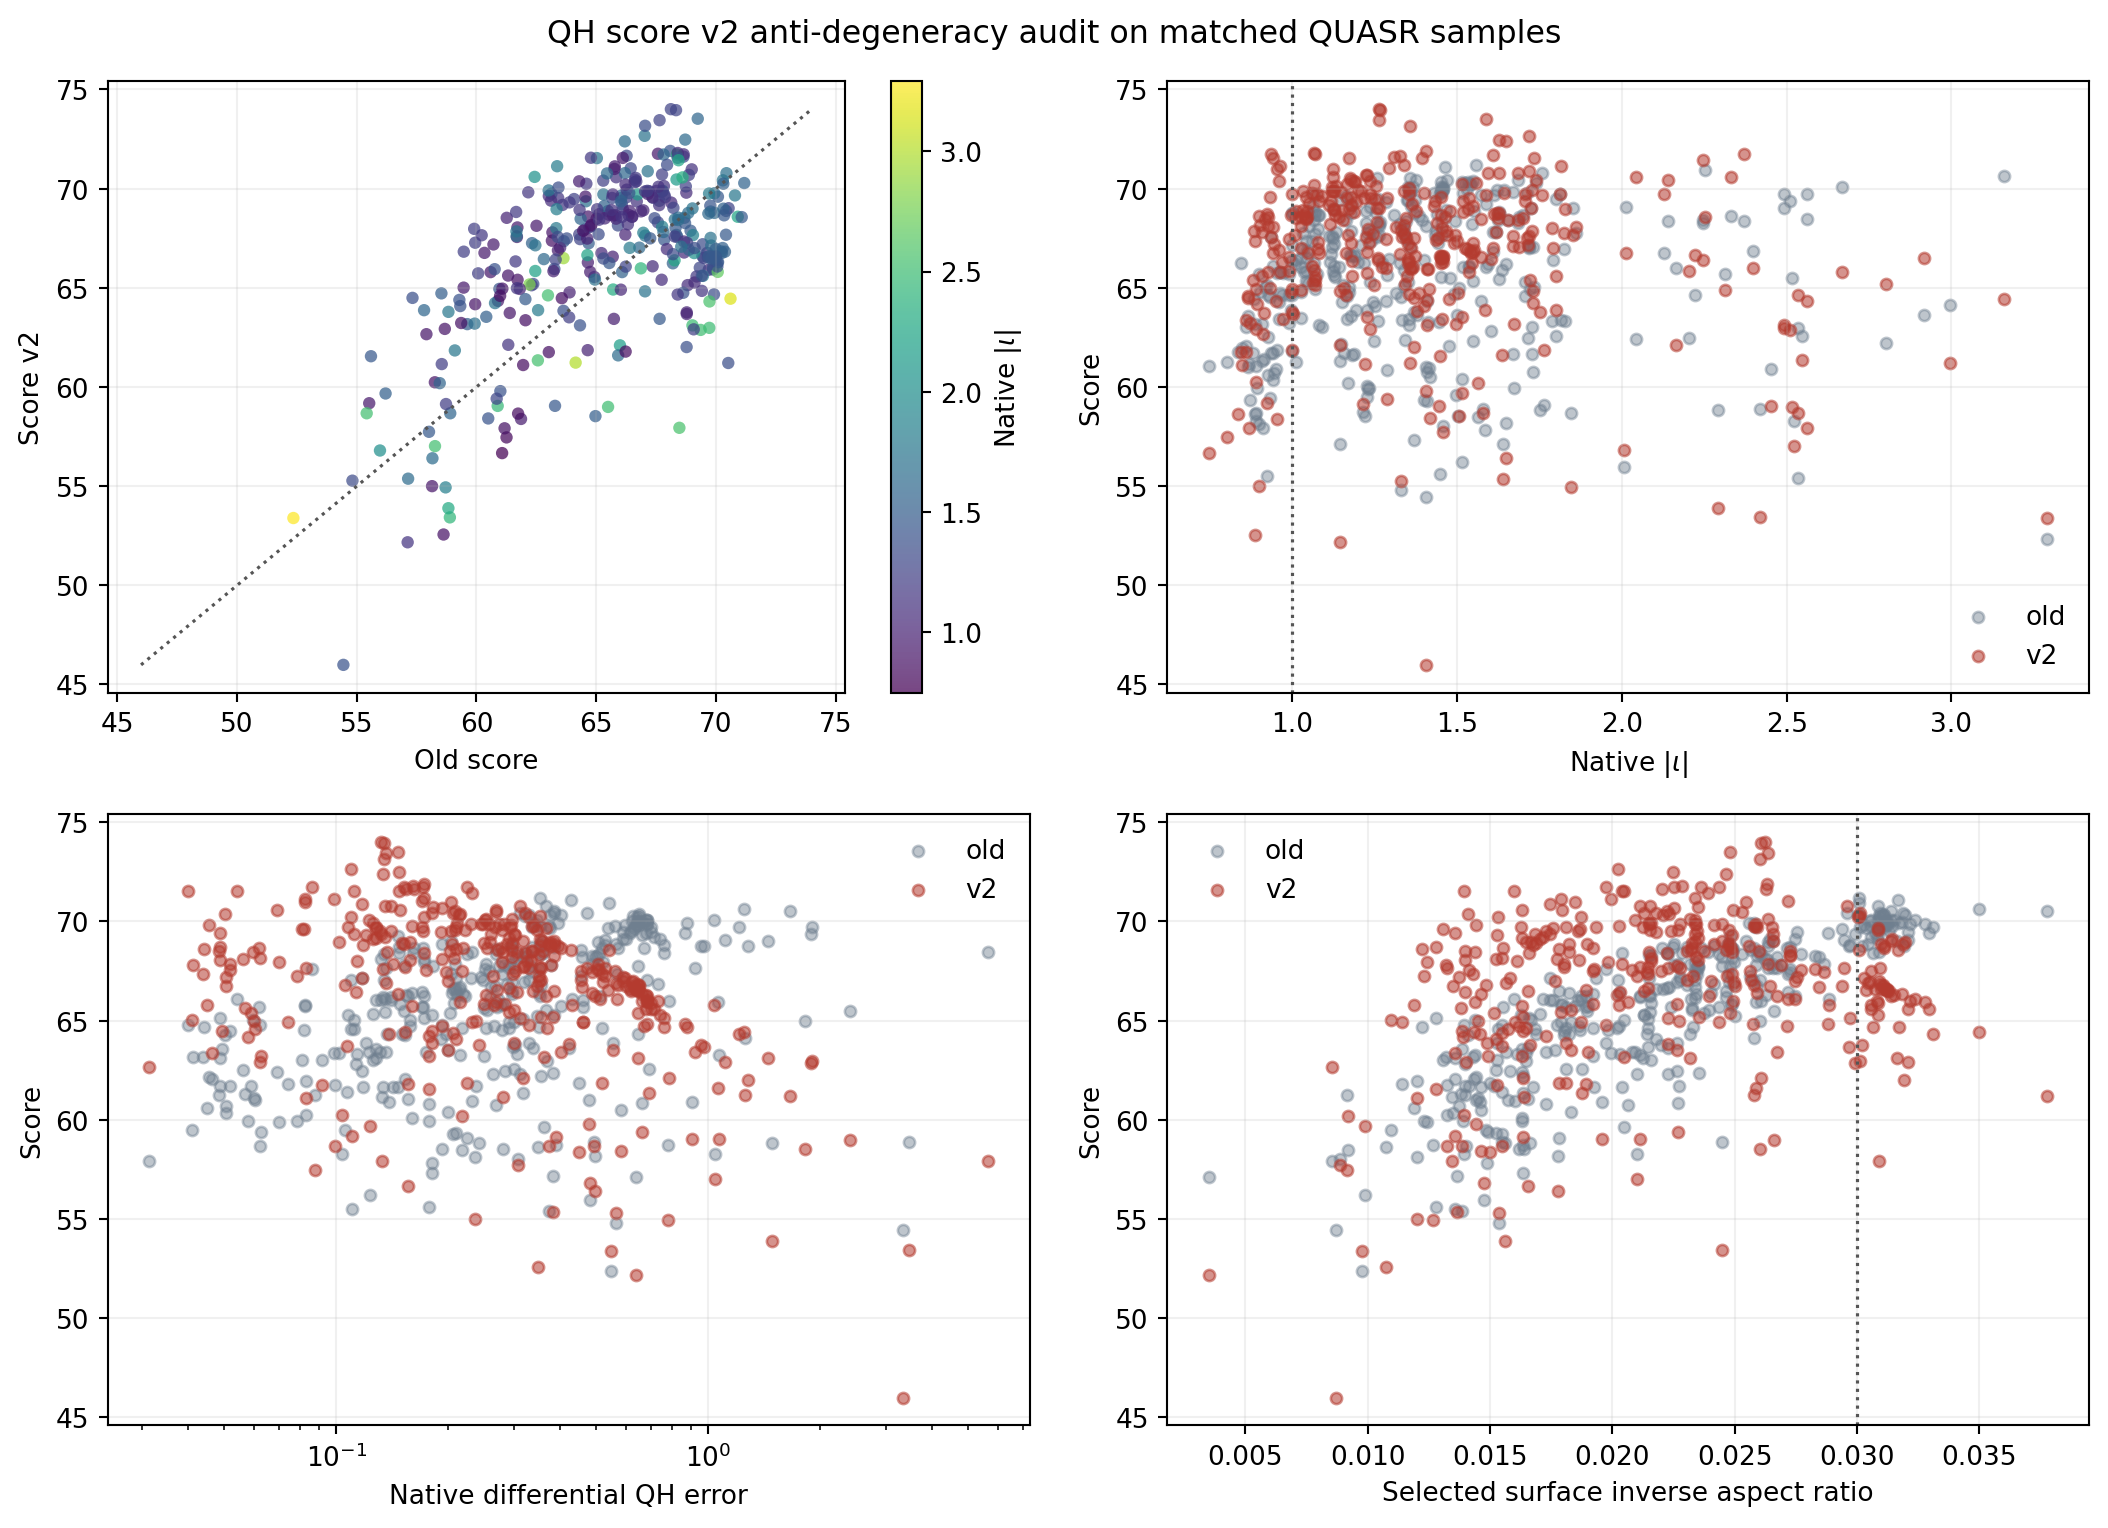
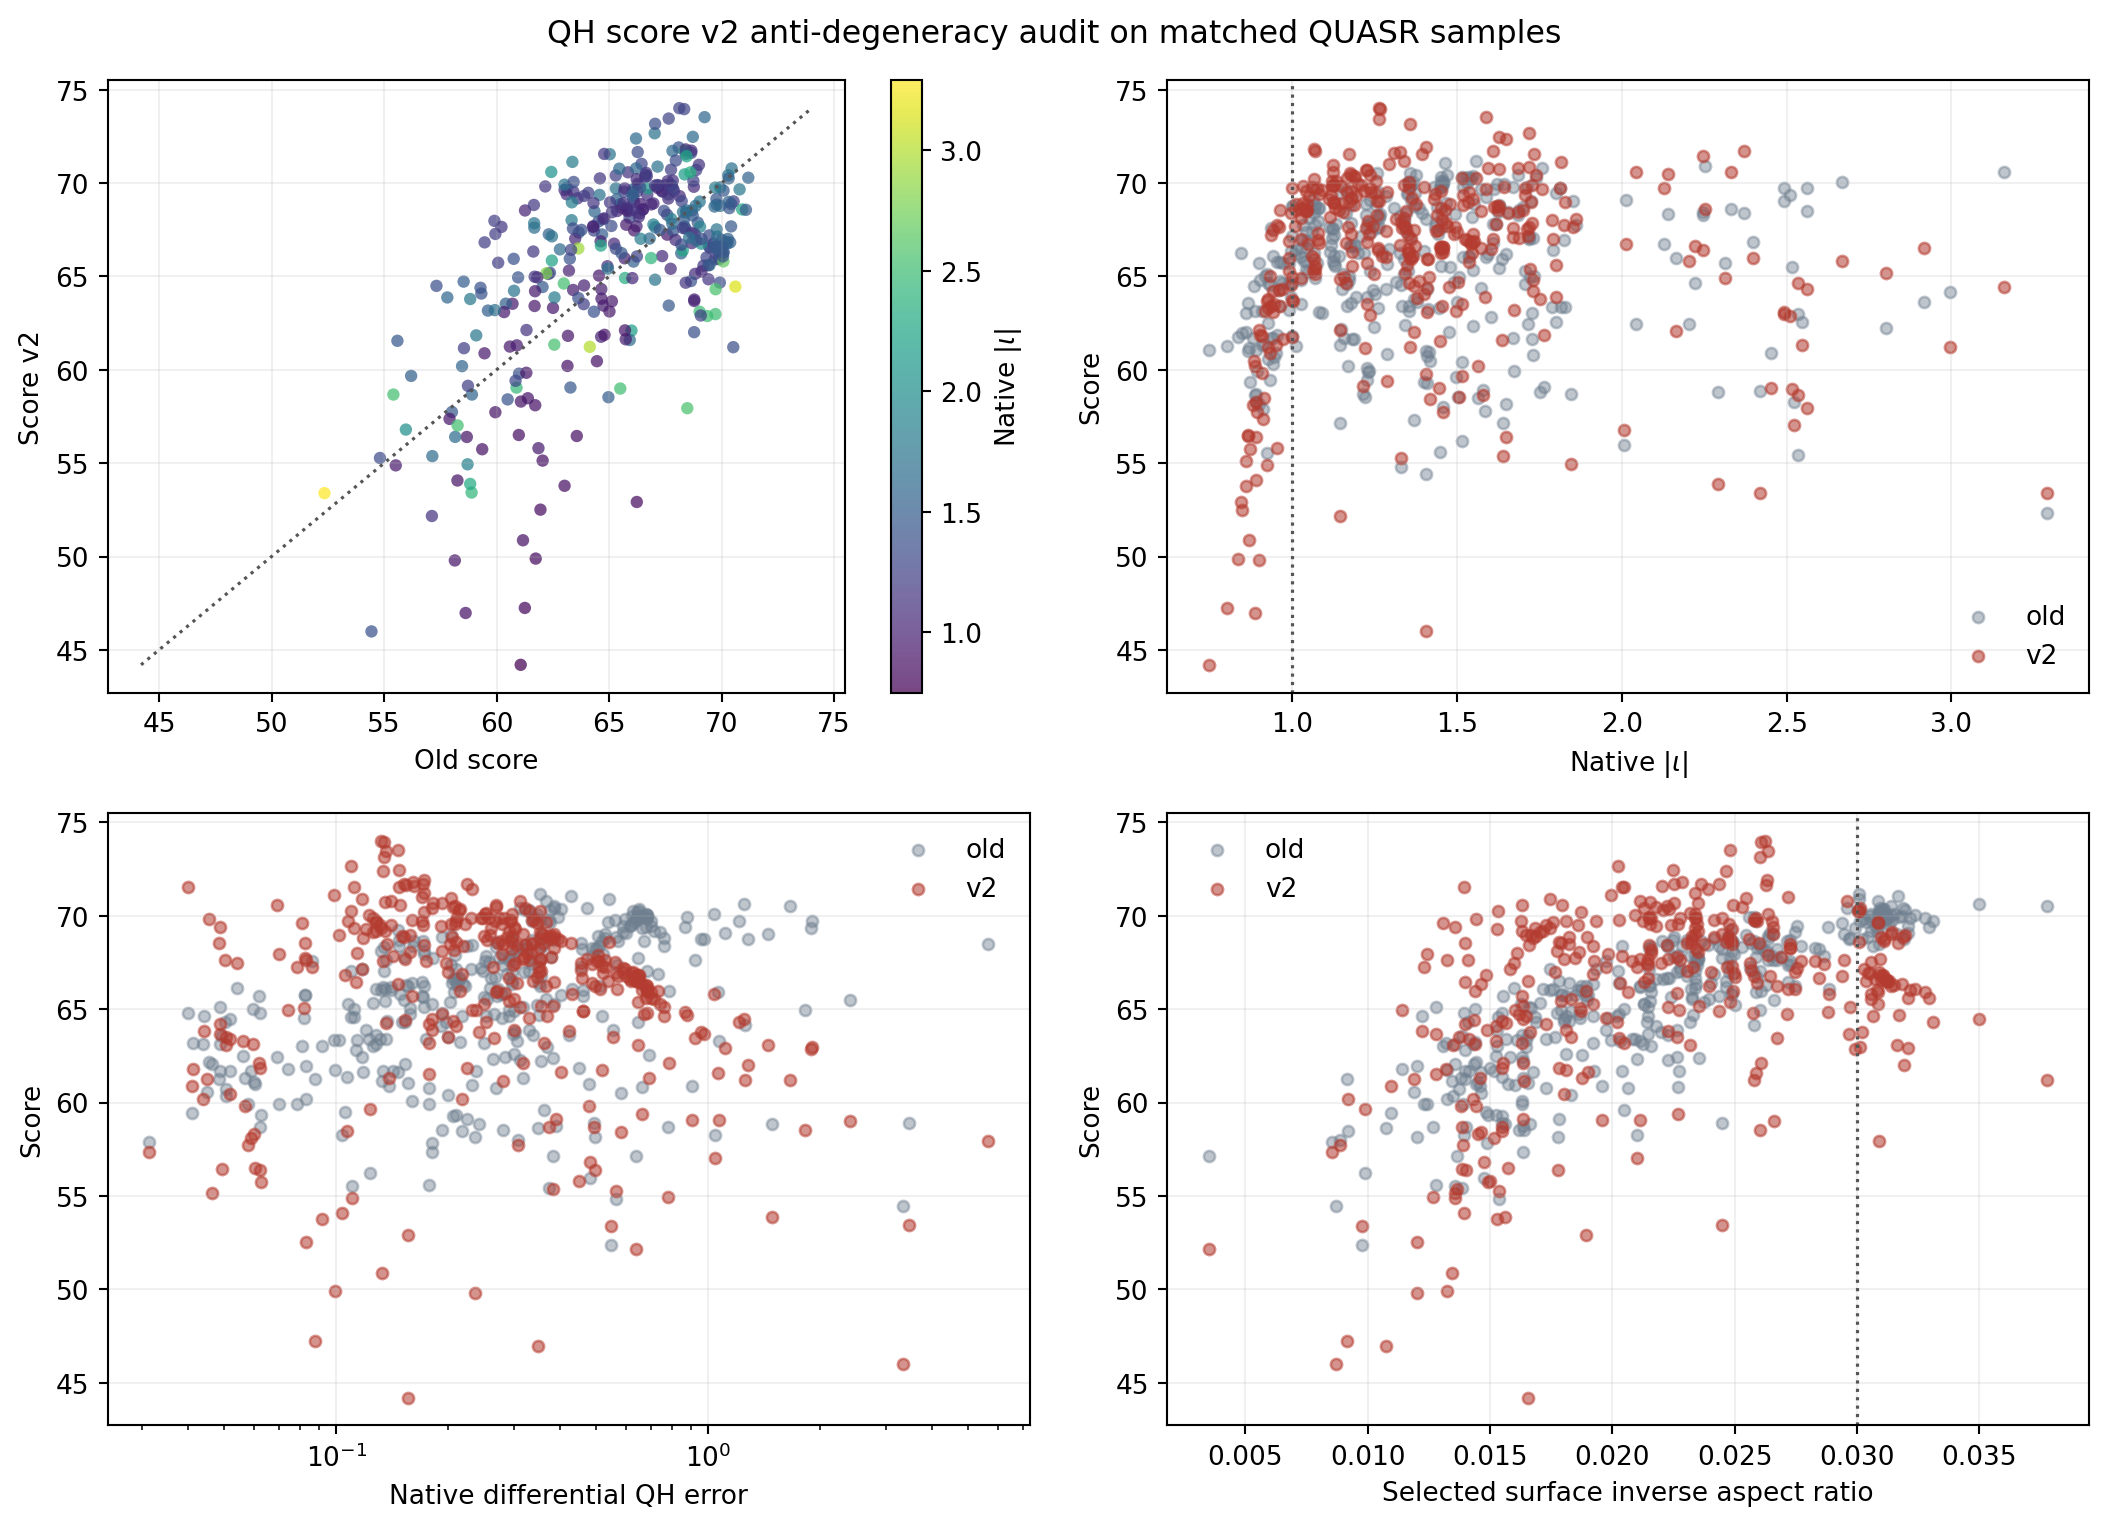
Gate QH total score by rotational transform

diff --git a/scripts/analyze_score_v2_anticheat.py b/scripts/analyze_score_v2_anticheat.py
@@ -161,6 +161,7 @@ def main() -> None:
     parser.add_argument("--degenerate-old", type=Path, required=True)
     parser.add_argument("--degenerate-new", type=Path, required=True)
     parser.add_argument("--quasr-metadata", type=Path)
+    parser.add_argument("--qh-total-iota-floor", type=float)
     parser.add_argument("--output-dir", type=Path, required=True)
     args = parser.parse_args()
 
@@ -175,7 +176,16 @@ def main() -> None:
             continue
         row = dict(new)
         row["old_score"] = old["score"]
-        row["new_score"] = new["score"]
+        score_before_gate = number(new, "score")
+        if args.qh_total_iota_floor is None:
+            total_iota_factor = 1.0
+        else:
+            total_iota_factor = args.qh_total_iota_floor + (
+                1.0 - args.qh_total_iota_floor
+            ) * number(new, "iota_score")
+        row["score_before_qh_iota_gate"] = score_before_gate
+        row["score_qh_total_iota_factor"] = total_iota_factor
+        row["new_score"] = score_before_gate * total_iota_factor
         rows.append(row)
     if not rows:
         raise RuntimeError("no matched successful QH rows")
@@ -188,9 +198,17 @@ def main() -> None:
     size = [number(row, "inverse_aspect_ratio") for row in rows]
     old_degenerate = extract_native_score(args.degenerate_old)
     new_degenerate = extract_native_score(args.degenerate_new)
-    new_degenerate_score = float(new_degenerate["score"])
+    degenerate_factor = (
+        1.0
+        if args.qh_total_iota_floor is None
+        else args.qh_total_iota_floor
+        + (1.0 - args.qh_total_iota_floor)
+        * float(new_degenerate["diagnostics"]["score_iota"])
+    )
+    new_degenerate_score = float(new_degenerate["score"]) * degenerate_factor
     summary = {
         "matched_successful_qh_count": len(rows),
+        "qh_total_iota_floor": args.qh_total_iota_floor,
         "score": {"old": statistics(old_scores), "v2": statistics(new_scores)},
         "spearman": {
             "old_score_vs_metadata_qs_quality": spearman(old_scores, quality),
@@ -212,6 +230,8 @@ def main() -> None:
         "degenerate_case": {
             "old_score": float(old_degenerate["score"]),
             "v2_score": new_degenerate_score,
+            "score_before_qh_iota_gate": float(new_degenerate["score"]),
+            "qh_total_iota_factor": degenerate_factor,
             "v2_quasr_percentile": float(100.0 * np.mean(np.asarray(new_scores) <= new_degenerate_score)),
             "v2_components": new_degenerate["components"],
             "v2_iota": float(new_degenerate["diagnostics"]["iota_min"]),

diff --git a/stellarator_eval/volume_score.py b/stellarator_eval/volume_score.py
@@ -36,6 +36,7 @@ class VolumeScoreConfig:
     qh_iota_power: float = 2.0
     volume_qs_size_floor: float = 0.65
     volume_qs_iota_floor: float = 0.50
+    qh_total_iota_floor: float = 0.50
     missing_coordinate_score: float = 0.08
     missing_volume_qs_score: float = 0.04
     weights: dict[str, float] = field(
@@ -319,7 +320,15 @@ def evaluate_volume_quality_score(
     total_weight = sum(float(value) for value in cfg.weights.values())
     if total_weight <= 0.0:
         raise ValueError("score weights must have a positive sum")
-    unit_score = sum(cfg.weights[name] * value for name, value in components.items()) / total_weight
+    unit_score_before_gate = (
+        sum(cfg.weights[name] * value for name, value in components.items()) / total_weight
+    )
+    qh_total_iota_factor = (
+        cfg.qh_total_iota_floor + (1.0 - cfg.qh_total_iota_floor) * iota_score
+        if iota_parts["iota_qh_gate_enabled"]
+        else 1.0
+    )
+    unit_score = unit_score_before_gate * qh_total_iota_factor
     details: dict[str, Any] = {}
     for part in (
         axis_parts,
@@ -331,6 +340,8 @@ def evaluate_volume_quality_score(
         coil_parts,
     ):
         details.update(part)
+    details["score_before_qh_iota_gate"] = float(100.0 * _clip01(unit_score_before_gate))
+    details["score_qh_total_iota_factor"] = float(qh_total_iota_factor)
     return {
         "score": float(100.0 * _clip01(unit_score)),
         "score_unit_interval": float(_clip01(unit_score)),

diff --git a/scripts/analyze_native_score_batch.py b/scripts/analyze_native_score_batch.py
@@ -282,6 +282,7 @@ def main() -> None:
             "inverse_aspect_ratio", "iota", "qs_global_error", "qs_edge_error",
             "iota_score", "qs_residual_score", "surface_size_score",
             "volume_qs_size_factor", "volume_qs_iota_factor",
+            "score_before_qh_iota_gate", "score_qh_total_iota_factor",
             "flux_attempt_count", "volume_valid_fraction",
             "volume_weight_effective_fraction", "edge_weight_effective_fraction",
             "volume_candidate_count", "volume_available_count", "volume_point_count",
@@ -309,6 +310,8 @@ def main() -> None:
                 "surface_size_score": diagnostics["score_surface_size"],
                 "volume_qs_size_factor": diagnostics["score_volume_qs_size_factor"],
                 "volume_qs_iota_factor": diagnostics["score_volume_qs_iota_factor"],
+                "score_before_qh_iota_gate": diagnostics["score_before_qh_iota_gate"],
+                "score_qh_total_iota_factor": diagnostics["score_qh_total_iota_factor"],
                 "flux_attempt_count": diagnostics["flux_attempt_count"],
                 "volume_valid_fraction": diagnostics["volume_valid_fraction"],
                 "volume_weight_effective_fraction": diagnostics["volume_weight_effective_fraction"],

diff --git a/tests/test_volume_score.py b/tests/test_volume_score.py
@@ -108,18 +108,22 @@ def test_qh_iota_below_one_is_penalized_monotonically():
     assert enough["components"]["iota"] == high["components"]["iota"] == 100.0
     assert very_low["components"]["volume_qs"] < low["components"]["volume_qs"]
     assert very_low["score"] < low["score"] < enough["score"]
+    assert very_low["details"]["score_qh_total_iota_factor"] == 0.505
+    assert enough["details"]["score_qh_total_iota_factor"] == 1.0
 
 
 def test_qa_does_not_apply_qh_iota_gate():
     qa = evaluate_volume_quality_score(_result(iota=0.1, target=(1, 0)))
     assert qa["components"]["iota"] == 100.0
     assert qa["details"]["volume_qs_iota_factor"] == 1.0
+    assert qa["details"]["score_qh_total_iota_factor"] == 1.0
 
 
 def test_qp_does_not_apply_qh_iota_gate():
     qp = evaluate_volume_quality_score(_result(iota=0.1, target=(0, 3)))
     assert qp["components"]["iota"] == 100.0
     assert qp["details"]["volume_qs_iota_factor"] == 1.0
+    assert qp["details"]["score_qh_total_iota_factor"] == 1.0
 
 
 def test_volume_score_penalizes_worse_qs_at_fixed_surface():

diff --git a/gpu_backend/python/stellarator_gpu.py b/gpu_backend/python/stellarator_gpu.py
@@ -27,7 +27,7 @@ class GpuError(RuntimeError):
     pass
 
 
-SGPU_SCORE_ABI_VERSION = 4
+SGPU_SCORE_ABI_VERSION = 5
 SGPU_SCORE_COMPONENT_NAMES = (
     "axis",
     "psi",
@@ -144,6 +144,7 @@ class _SgpuScoreConfig(ctypes.Structure):
         ("score_qh_iota_power", ctypes.c_double),
         ("score_volume_qs_size_floor", ctypes.c_double),
         ("score_volume_qs_iota_floor", ctypes.c_double),
+        ("score_qh_total_iota_floor", ctypes.c_double),
     ]
 
 
@@ -188,6 +189,8 @@ class _SgpuScoreResult(ctypes.Structure):
         ("score_qs_residual", ctypes.c_double),
         ("score_volume_qs_size_factor", ctypes.c_double),
         ("score_volume_qs_iota_factor", ctypes.c_double),
+        ("score_before_qh_iota_gate", ctypes.c_double),
+        ("score_qh_total_iota_factor", ctypes.c_double),
         ("qs_global_error", ctypes.c_double),
         ("qs_edge_error", ctypes.c_double),
         ("qs_abs_p95", ctypes.c_double),

diff --git a/gpu_backend/include/coil_field.h b/gpu_backend/include/coil_field.h
@@ -3,7 +3,7 @@
 #include <cstddef>
 #include <cstdint>
 
-#define SGPU_SCORE_ABI_VERSION 4u
+#define SGPU_SCORE_ABI_VERSION 5u
 #define SGPU_SCORE_MAX_SURFACE_LEVELS 16
 #define SGPU_SCORE_COMPONENT_COUNT 7
 #define SGPU_SCORE_TIMING_COUNT 16
@@ -131,6 +131,7 @@ struct SgpuScoreConfig {
     double score_qh_iota_power;
     double score_volume_qs_size_floor;
     double score_volume_qs_iota_floor;
+    double score_qh_total_iota_floor;
 };
 
 struct SgpuScoreResult {
@@ -179,6 +180,8 @@ struct SgpuScoreResult {
     double score_qs_residual;
     double score_volume_qs_size_factor;
     double score_volume_qs_iota_factor;
+    double score_before_qh_iota_gate;
+    double score_qh_total_iota_factor;
 
     double qs_global_error;
     double qs_edge_error;

diff --git a/scripts/analyze_long_cem_run.py b/scripts/analyze_long_cem_run.py
@@ -33,6 +33,8 @@ def compact_candidate(row: dict) -> dict:
         "qs_edge_error": diagnostics["qs_edge_error"],
         "iota": 0.5 * (diagnostics["iota_min"] + diagnostics["iota_max"]),
         "iota_score": diagnostics.get("score_iota"),
+        "score_before_qh_iota_gate": diagnostics.get("score_before_qh_iota_gate"),
+        "score_qh_total_iota_factor": diagnostics.get("score_qh_total_iota_factor"),
         "surface_inverse_aspect_ratio": diagnostics[
             "surface_inverse_aspect_ratio"
         ],
